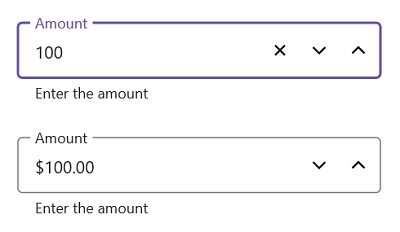
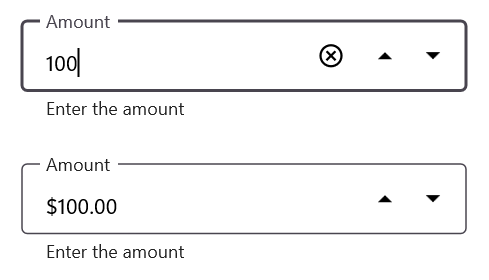
Update TIL image revamping and code corrections

diff --git a/MAUI/TextInputLayout/Supported-input-views.md b/MAUI/TextInputLayout/Supported-input-views.md
@@ -21,7 +21,7 @@ To enter a single line text input, add [`Entry`](https://learn.microsoft.com/en-
 {% highlight xaml %} 
 
 <inputLayout:SfTextInputLayout Hint="Name"
-                               HelperText="Enter your name"
+                               HelperText="Enter the name"
                                ContainerType="Outlined">
    <Entry />
 </inputLayout:SfTextInputLayout>  
@@ -354,7 +354,7 @@ To initialize the [Picker](https://learn.microsoft.com/en-us/dotnet/maui/user-in
 <inputLayout:SfTextInputLayout Hint="Fruit" 
                                HelperText="Select a fruit"
                                ContainerType="Outlined" >
-   <picker:Picker SelectedItem="Apple">
+   <Picker SelectedItem="Apple">
         <Picker.ItemsSource>
             <x:Array Type="{x:Type x:String}">
                 <x:String>Apple</x:String>
@@ -362,7 +362,7 @@ To initialize the [Picker](https://learn.microsoft.com/en-us/dotnet/maui/user-in
                 <x:String>Strawberry</x:String>
             </x:Array>
         </Picker.ItemsSource>
-   </picker:Picker>
+   </Picker>
 </inputLayout:SfTextInputLayout> 
 
 {% endhighlight %}
@@ -396,7 +396,7 @@ To initialize the [TimePicker](https://learn.microsoft.com/en-us/dotnet/maui/use
  <inputLayout:SfTextInputLayout Hint="Time" 
                                HelperText="Select a start time"
                                ContainerType="Outlined" >
-    <timepicker:TimePicker/>
+    <TimePicker/>
  </inputLayout:SfTextInputLayout>
 
 {% endhighlight %}
@@ -426,7 +426,7 @@ To initialize the [DatePicker]( https://learn.microsoft.com/en-us/dotnet/maui/us
 <inputLayout:SfTextInputLayout Hint="Date of Birth" 
                                HelperText="Select birth date"
                                ContainerType="Outlined" >
-    <datepicker:DatePicker/>
+    <DatePicker/>
 </inputLayout:SfTextInputLayout> 
 
 {% endhighlight %}

diff --git a/MAUI/TextInputLayout/Container-Type.md b/MAUI/TextInputLayout/Container-Type.md
@@ -21,6 +21,7 @@ The background of the input view will be filled with container color, and its st
 {% highlight xaml %} 
 
 <inputLayout:SfTextInputLayout Hint="Name"
+                               HelperText="Enter the name"
                                ContainerType="Filled">
     <Entry Text="John" />
 </inputLayout:SfTextInputLayout>  
@@ -49,6 +50,7 @@ When setting the [ContainerType](https://help.syncfusion.com/cr/maui/Syncfusion.
 {% highlight xaml %} 
 
 <inputLayout:SfTextInputLayout Hint="Name"
+                               HelperText="Enter the name"
                                ContainerType="Outlined">
     <Entry Text="John" />
 </inputLayout:SfTextInputLayout>  
@@ -142,7 +144,8 @@ When setting the [ContainerType](https://help.syncfusion.com/cr/maui/Syncfusion.
 
 {% highlight xaml %} 
 
-<inputLayout:SfTextInputLayout Hint="Name" 
+<inputLayout:SfTextInputLayout Hint="Name"
+                               HelperText="Enter the name" 
                                ContainerType="None">
     <Entry Text="John" />
 </inputLayout:SfTextInputLayout>  
